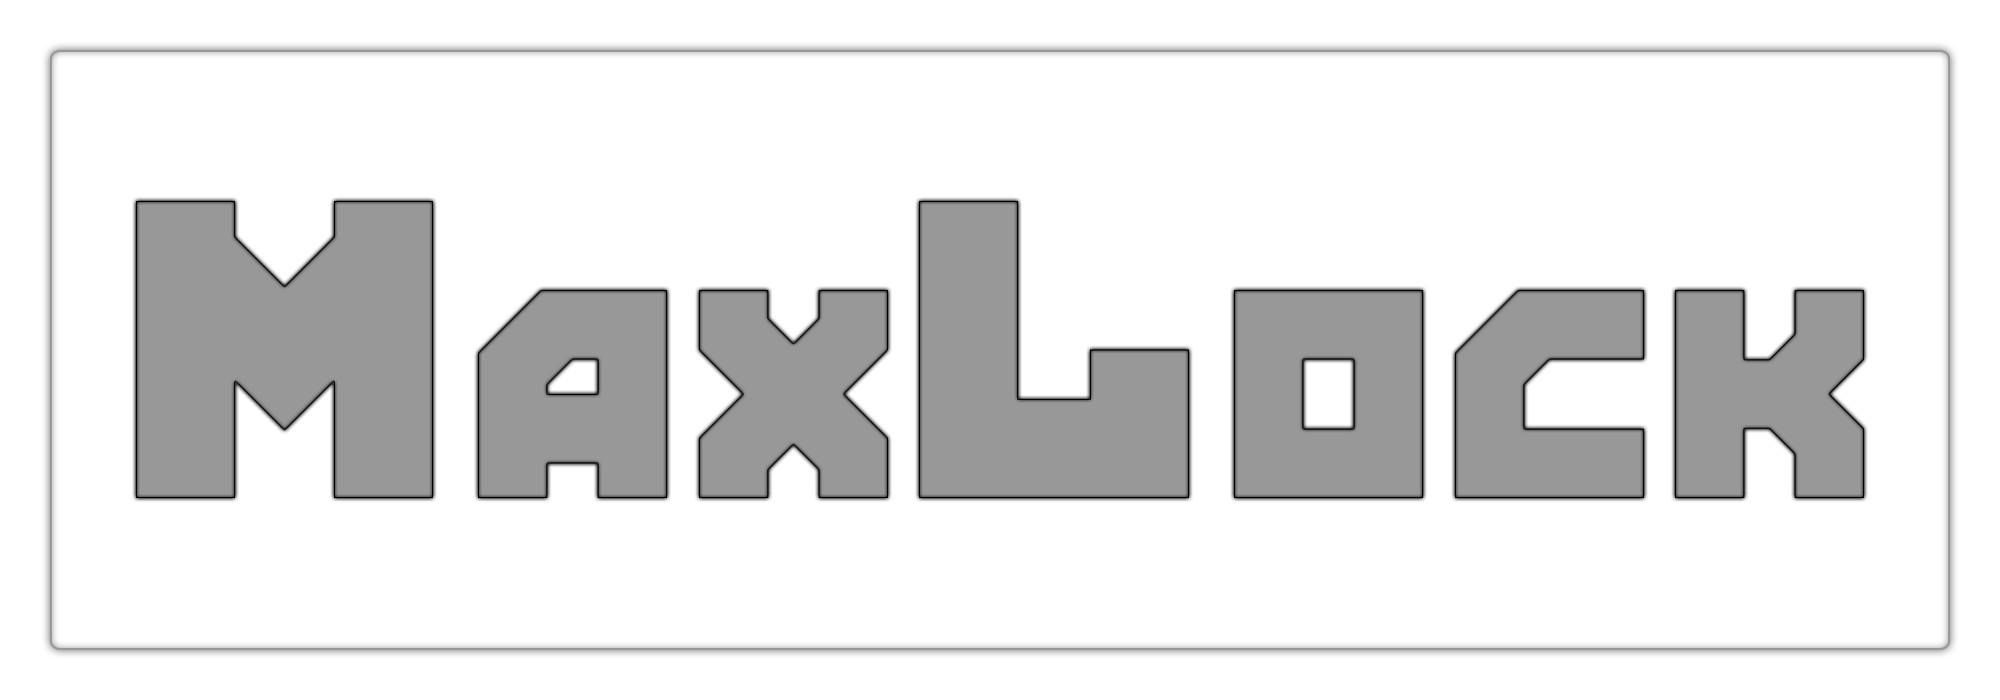
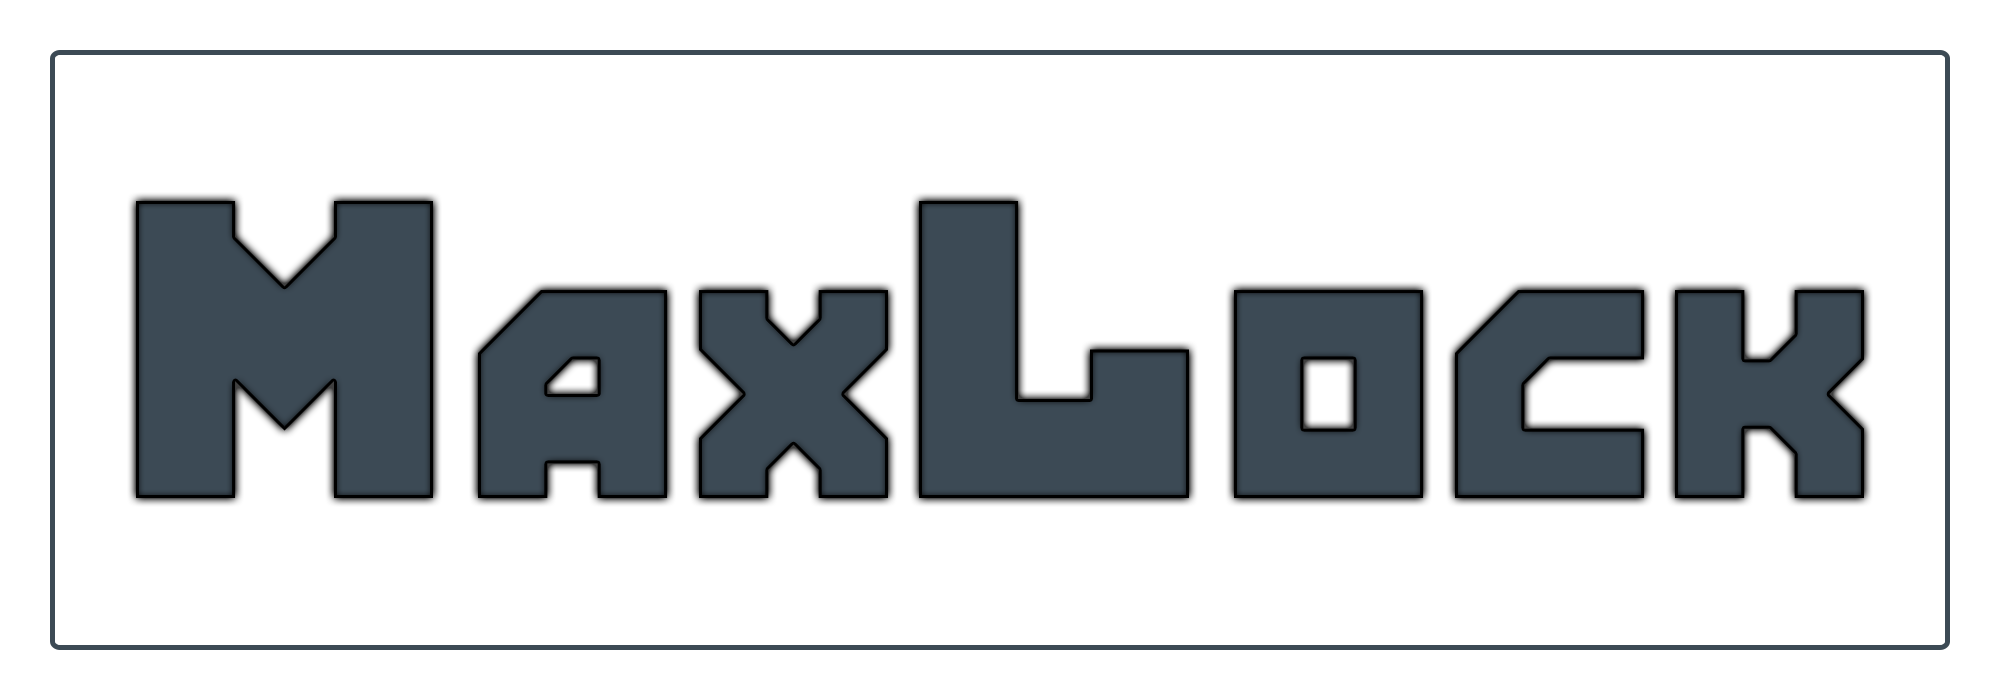
user.html
am facut user.html sa arate ca pagina principala, am modificat tabelul si nav doar pentru pagina asta sa aibe stict Home si Account.

Changed region(s): [[0.0, 0.06, 0.992, 0.96]]

diff --git a/user.html b/user.html
@@ -7,7 +7,7 @@
     <meta name="viewport" content="width=device-width, initial-scale=1.0">
     <meta name="author" content="Lupoae Eduard, Neculache Nicu">
     <meta name="description" content="Password manager for management password and protection.">
-    <link rel="stylesheet" href="styles.css">
+    <link rel="stylesheet" href="css/nav-bar.css">
     <link rel="stylesheet" href="css/account-styles.css">
     <link rel="stylesheet" href="https://use.fontawesome.com/releases/v5.7.2/css/all.css"
           integrity="sha384-fnmOCqbTlWIlj8LyTjo7mOUStjsKC4pOpQbqyi7RrhN7udi9RwhKkMHpvLbHG9Sr" crossorigin="anonymous">
@@ -15,50 +15,67 @@
 
 
 <body>
-<header id="header">
-    <nav class="main-nav" id="nav-scroll">
-        <a href="index.html" class="logo"><i class="fab fa-black-tie -fa-7x"></i></a>
-        <div class="nav-elements">
-            <a href="index.html">Home</a>
-            <a href="user.html"><i class="far fa-user"></i> Account</a>
+<header>
+    <nav class="nav-bar">
+        <a href="#"><img class="logo" src="image/Logo1.png" alt="MaxLock"></a>
+        <ul class="nav-elements">
+            <li><a href="index.html">Home</a></li>
+            <li><a href="#"><i class="far fa-user"></i>Account</a></li>
+        </ul>
+        <div class="nav-close">
+            <div class="line-1"></div>
+            <div class="line-2"></div>
+            <div class="line-3"></div>
         </div>
+
     </nav>
 </header>
 
-<!-- Main -->
+<div class="large-logo">
+    <img src="image/Text.png" alt="logo-image">
+</div>
 
 <div class="main">
-    <h2>Password Manager</h2>
-    <table>
-        <tr>
-            <th>Site</th>
-            <th>Username/Email</th>
-            <th>Password</th>
-            <th>Last change</th>
-            <th></th>
-        </tr>
-        <tr>
-            <td>Google</td>
-            <td>nume@site.ceva</td>
-            <td>*********</td>
-            <td>12.12.2012</td>
-            <td><button type="submit" action="php/delete.php">X</button></td>
-        </tr>
-        <tr>
-            <td>Facebook</td>
-            <td>nume@site.ceva</td>
-            <td>*********</td>
-            <td>12.12.2012</td>
-            <td><button type="submit" action="php/delete.php">X</button></td>
-        </tr>
-        <tr>
-            <td>MaxLock</td>
-            <td>nume@site.ceva</td>
-            <td>*********</td>
-            <td>12.12.2012</td>
-            <td><button type="submit" action="php/delete.php">X</button></td>
-        </tr>
-    </table>
+
+    <div class="content">
+        <h2>Password Manager</h2>
+        <table>
+            <thead>
+            <tr>
+                <th>Site</th>
+                <th>Username/Email</th>
+                <th class="column3">Last change</th>
+            </tr>
+            </thead>
+            <tbody>
+            <tr>
+                <td><a href="https://www.google.com">Google</a></td>
+                <td>nume@site.ceva</td>
+                <td class="column3">12.12.2012</td>
+            </tr>
+            <tr>
+                <td><a href="https://www.facebook.com">Facebook</a></td>
+                <td>nume@site.ceva</td>
+                <td class="column3">12.12.2012</td>
+            </tr>
+            <tr>
+                <td><a href="index.html">MaxLock</a></td>
+                <td>nume@site.ceva</td>
+                <td class="column3">12.12.2012</td>
+            </tr>
+            <tr>
+                <td><a href="index.html">MaxLock TEst TEst</a></td>
+                <td>amun.mail.extremdelung@cevalungsiacici.net</td>
+                <td class="column3">12.12.2012</td>
+            </tr>
+            <tr>
+                <td><a href="index.html">MaxLock test2</a></td>
+                <td>amun.mail@a.abx</td>
+                <td class="column3">12.12.2012</td>
+            </tr>
+            </tbody>
+        </table>
+    </div>
 </div>
 
 <footer id="footer">

diff --git a/css/account-styles.css b/css/account-styles.css
@@ -1,35 +1,42 @@
 table {
-    font-family: arial, sans-serif;
+    border-spacing: 1px;
     border-collapse: collapse;
+    background: lightgray;
+    border-radius: 5px;
+    overflow: hidden;
     width: 100%;
+    margin: 5px auto;
+    position: relative;
 }
 
-th {
-    border: 1px solid #585858;
+table td, table th {
+    padding: 10px;
     text-align: left;
-    padding: 8px;
-}
-td {
-    border: 1px solid #dddddd;
-    text-align: left;
-    padding: 8px;
 }
 
-td.delete {
-    border: 1px solid #dddddd;
-    text-align: left;
-    color: red;
-    padding: 8px;
+table thead tr {
+    background: #3c4a55;
+    color: ghostwhite;
 }
 
-tr:nth-child(even) {
-    background-color: #dddddd;
+tbody tr:nth-child(even) {
+    background-color: #f5f5f5;
 }
 
-header {
-    background: url("../image/background-lock.jpg") 500px 550px;
-    background-size: cover;
-    height: 200px;
+tbody tr:hover {
+    color: ghostwhite;
+    background-color: darkgray;
+    cursor: pointer;
+}
+
+table a {
+    text-decoration: none;
+}
+
+.column3 {
+    text-align: center;
+    width: 120px;
+    min-width: 100px;
 }
 
 .account {
@@ -44,4 +51,11 @@ header {
     outline: none !important;
     border-bottom: 1px solid #AAA;
     transition: 0.2s;
+}
+
+.nav-elements {
+    display: flex;
+    justify-content: space-around;
+    width: 20%;
+    margin-left: 20%;
 }

diff --git a/index.html b/index.html
@@ -7,8 +7,8 @@
     <meta name="viewport" content="width=device-width, initial-scale=1.0">
     <meta name="author" content="Lupoae Eduard, Neculache Nicu">
     <meta name="description" content="Password manager for management password and protection.">
-    <link rel="stylesheet" href="login-box.css">
-    <link rel="stylesheet" href="nav-bar.css">
+    <link rel="stylesheet" href="css/login-box.css">
+    <link rel="stylesheet" href="css/nav-bar.css">
     <link rel="stylesheet" href="https://use.fontawesome.com/releases/v5.7.2/css/all.css"
           integrity="sha384-fnmOCqbTlWIlj8LyTjo7mOUStjsKC4pOpQbqyi7RrhN7udi9RwhKkMHpvLbHG9Sr" crossorigin="anonymous">
 </head>
@@ -77,7 +77,7 @@
 
 
     <div class="content">
-        <div class="about">
+        <div class="about" id="About">
             <h1 class="title"><b>About</b></h1>
             <p>asdaadsaadsa</p>
             <p>asdaadsaadsaasdasdasdasdas frger gerbtrytnbytnnt ntynklrtnjkrei bvnrovnornvie rnivernviuen</p>

diff --git a/css/nav-bar.css b/css/nav-bar.css
@@ -13,7 +13,7 @@ html {
 }
 
 body {
-    background: url("image/headerBackground.jpg") no-repeat center center fixed, #3b719f;
+    background: url("../image/headerBackground.jpg") no-repeat center center fixed, #3b719f;
     background-size: cover;
 
     font-family: 'Poppins', sans-serif;
@@ -317,4 +317,29 @@ button:hover {
 .large-logo img {
     height: 150px;
     width: 400px;
+}
+/*--------- Footer ----------*/
+
+
+#footer {
+    background: #3c4a55;
+    padding: 5px 5px;
+}
+.container-footer {
+    text-align: center;
+    width: 100%;
+}
+
+.copyright {
+    text-decoration: none;
+    color: white;
+}
+
+.copyright a{
+    text-decoration: none;
+    color: ghostwhite;
+}
+
+.copyright a:hover {
+    color: black;
 }

diff --git a/register.html b/register.html
@@ -4,7 +4,7 @@
     <meta charset="UTF-8">
     <meta name="viewport" content="width=device-width, initial-scale=1.0">
     <title>MaxLock: Register</title>
-    <link rel="stylesheet" href="register.css">
+    <link rel="stylesheet" href="css/register.css">
     <link rel="stylesheet" href="https://use.fontawesome.com/releases/v5.7.2/css/all.css" integrity="sha384-fnmOCqbTlWIlj8LyTjo7mOUStjsKC4pOpQbqyi7RrhN7udi9RwhKkMHpvLbHG9Sr" crossorigin="anonymous">
 
 </head>

diff --git a/css/register.css b/css/register.css
@@ -155,7 +155,7 @@ input[type="submit"]:hover {
     padding: 40px;
     width: 300px;
     height: 400px;
-    background: url('image/register.jpg') center;
+    background: url('../image/register.jpg') center;
     background-size: cover;
     border-radius: 0 4px 4px 0;
 }
